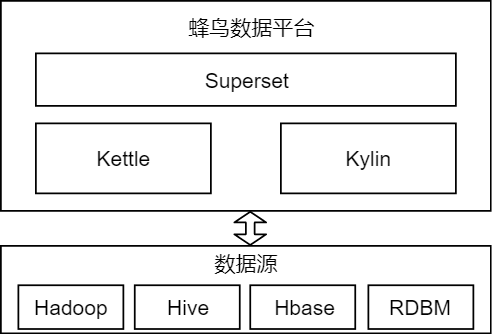
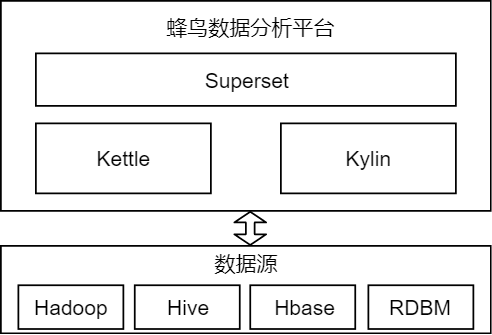
添加和修改

Changed region(s): [[0.3354, 0.0299, 0.6707, 0.1194]]

diff --git a/README.md b/README.md
@@ -1,7 +1,7 @@
 # hummingbirdSystem
 <img src="./readme-imgs/hummingbirdSystem.png"  alt="无法显示该图片" />
 
-### 蜂鸟数据平台使用Hadoop、Hive、Hbase、Kylin、Kettle、Superset等技术实现数据建模、自定义ETL操作、多维数据分析以及数据可视化的功能。
+### 蜂鸟数据分析平台使用Hadoop、Hive、Hbase、Kylin、Kettle、Superset等技术实现数据建模、自定义ETL操作、多维数据分析以及数据可视化的功能。
 <img src="./readme-imgs/hummingbirdSystem-arc.png"  alt="无法显示该图片" />
 
 ## 数据分析
@@ -11,6 +11,11 @@
 - 3.机器学习
 
 ### 数据分析的统计计数和多维分析，通常称之为数据探索式分析，旨在了解数据的特性，有助于进一步挖掘数据的价值。而基于对数据的理解，再引入机器学习的算法对数据做出预测就变得水到渠成了。大多数公司其实没有精力去搭建复杂的数据分析平台，面对快速变化的业务需求，很多数据工程师都把自己的青春埋葬在SQL里了。
+
+## Kettle
+### Kettle是“Kettle E.T.T.L. Envirnonment”的缩写。这意味着它被设计用来实现ETTL的需要：抽取、转换、装入和加载数据。它是一款国外开源的ETL工具，纯Java编写，可以在Window、Linux、Unix上运行，绿色无需安装，数据抽取高效稳定。
+
+## Kylin
 
 ## Superset
 ### Superset是一个自助式数据分析工具，它的主要目标是简化数据探索分析操作。通过让用户创建并且分享仪表盘的方式为数据分析人员提供一个快速的数据可视化功能。通过一个定义字段、下拉聚合规则的简单的语法层操作就可以将数据源在UI上丰富地呈现，还深度整合了Druid以保证在操作超大、实时数据的分片和切分都能行云流水。
